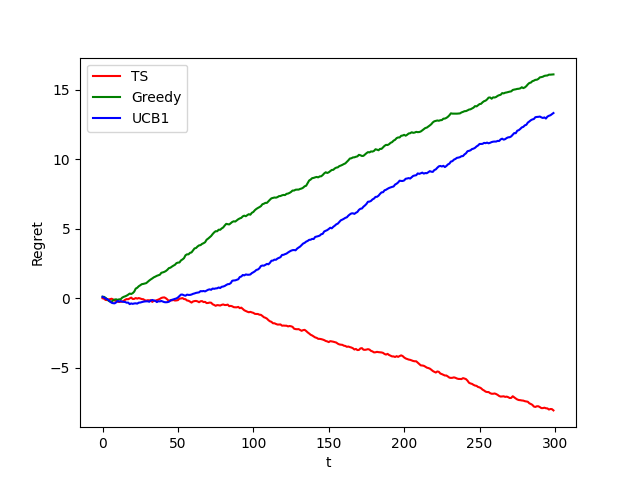
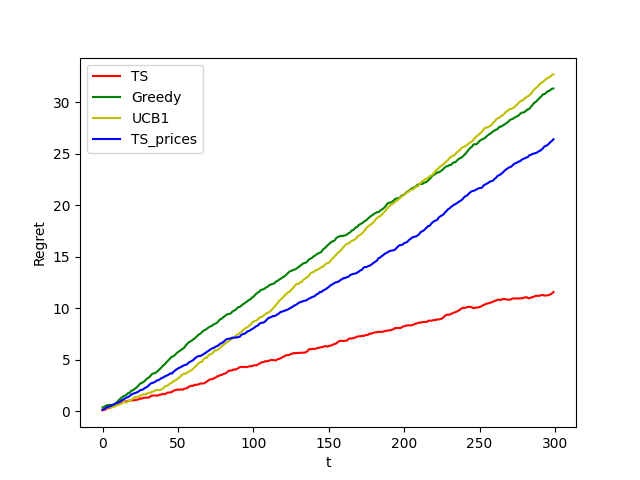
ts learner

diff --git a/experiment_ts.py b/experiment_ts.py
@@ -1,7 +1,7 @@
 import numpy as np
 import matplotlib.pyplot as plt
 from environment import Environment
-from learners import TS_Learner, Greedy_Learner, UCB1
+from learners import TS_Learner, Greedy_Learner, UCB1, TS_Learner_Prices
 from tqdm import tqdm
 import yaml
 from pricing import *
@@ -32,7 +32,7 @@ Nc = new_clicks(bid, Na, p0, avg_cc)
 cc = cost_per_click(bid, aggregated["cost_per_click"])
 
 n_arms = len(config["prices"])
-opt = p[1]
+opt = p[4]
 
 
 T = 300 # number of days
@@ -43,18 +43,20 @@ n_experiments = 100
 ts_reward_per_experiments = []
 gr_reward_per_experiments = []
 uc_reward_per_experiments = []
+tp_reward_per_experiments = []
 
 for e in tqdm(range(0, n_experiments)):
     env = Environment(n_arms=n_arms, probabilities=p)
     ts_learner = TS_Learner(n_arms=n_arms)
     gr_learner = Greedy_Learner(n_arms=n_arms)
     uc_learner = UCB1(n_arms=n_arms, prices=config['prices'])
+    tp_learner = TS_Learner_Prices(n_arms=n_arms)
     for t in range(0,T):
         #Thompson sampling learner
         pulled_arm = ts_learner.pull_arm()
         reward = env.round(pulled_arm)
         ts_learner.update(pulled_arm, reward)
-
+        
         # Greedy Learner
         pulled_arm = gr_learner.pull_arm()
         reward = env.round(pulled_arm)
@@ -64,17 +66,24 @@ for e in tqdm(range(0, n_experiments)):
         pulled_arm = uc_learner.pull_arm()
         reward = env.round(pulled_arm)
         uc_learner.update(pulled_arm, reward)
-    
+
+        # TS prices
+        pulled_arm = tp_learner.pull_arm(config['prices'])
+        reward = env.round(pulled_arm)
+        tp_learner.update(pulled_arm, reward)
+
     ts_reward_per_experiments.append(ts_learner.collected_rewards)
     gr_reward_per_experiments.append(gr_learner.collected_rewards)
     uc_reward_per_experiments.append(uc_learner.collected_rewards)
+    tp_reward_per_experiments.append(tp_learner.collected_rewards)
 
 plt.figure(0)
 plt.xlabel("t")
 plt.ylabel("Regret")
 plt.plot(np.cumsum(np.mean(opt - ts_reward_per_experiments, axis=0)), 'r')
 plt.plot(np.cumsum(np.mean(opt - gr_reward_per_experiments, axis=0)), 'g')
-plt.plot(np.cumsum(np.mean(opt - uc_reward_per_experiments, axis=0)), 'b')
-plt.legend(["TS", "Greedy", "UCB1"])
+plt.plot(np.cumsum(np.mean(opt - uc_reward_per_experiments, axis=0)), 'y')
+plt.plot(np.cumsum(np.mean(opt - tp_reward_per_experiments, axis=0)), 'b')
+plt.legend(["TS", "Greedy", "UCB1", "TS_prices"])
 plt.savefig("exp.png")
 #plt.show()

diff --git a/learners.py b/learners.py
@@ -39,14 +39,6 @@ class TS_Learner(Learner):
         self.beta_parameters = np.ones((n_arms, 2))
 
     def pull_arm(self):
-        """
-        select which is the arm to pull at 
-        each time t, by sampling a value from
-        a beta distr. for each arm, then selects
-        the arm associated to the beta 
-        distribution that generated the sample
-        with the maximum value
-        """
         idx = np.argmax(np.random.beta(
             self.beta_parameters[:,0],
             self.beta_parameters[:,1]
@@ -108,3 +100,23 @@ class UCB1(Learner):
             number_pulled = max(1, len(self.rewards_per_arm[a]))
             self.confidence[a] = (2*np.log(self.t)/ number_pulled)**0.5
         np.append(self.rewards_per_arm[pulled_arm], reward)
+
+class TS_Learner_Prices(TS_Learner):
+
+    def __init__(self, n_arms):
+        super().__init__(n_arms)
+        self.beta_parameters = np.ones((n_arms, 2))
+
+    def pull_arm(self, prices):
+
+        beta_samples = np.random.beta(self.beta_parameters[:,0], self.beta_parameters[:,1])
+        expected_rewards = np.multiply(beta_samples, prices)
+
+        idx = np.argmax(expected_rewards)
+        return idx
+
+    def update(self, pulled_arm, reward):
+        self.t+=1
+        self.update_observations(pulled_arm, reward)
+        self.beta_parameters[pulled_arm, 0] = self.beta_parameters[pulled_arm, 0] + reward
+        self.beta_parameters[pulled_arm, 1] = self.beta_parameters[pulled_arm, 1] + 1.0 - reward
